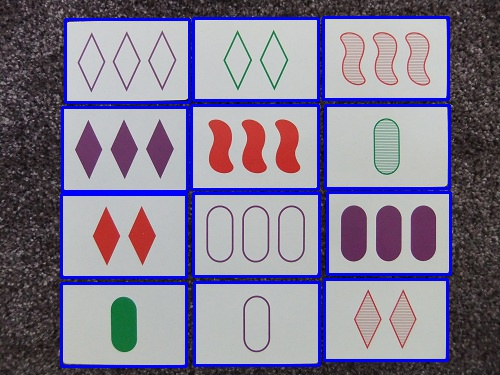
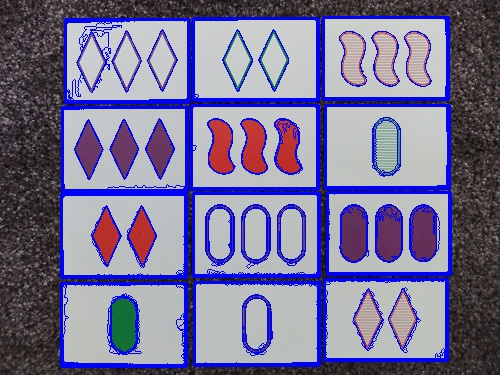
Add basic shape recognition.

Changed region(s): [[0.12, 0.0293, 0.9, 0.9973], [0.75, 0.0587, 0.78, 0.088], [0.42, 0.1467, 0.45, 0.176]]

diff --git a/find_cards.py b/find_cards.py
@@ -31,6 +31,23 @@ def find_cards(img):
                         cards.append(cv2.boundingRect(np.array([leftmost, rightmost, topmost, bottommost])))
     return cards
 
+def find_shapes(image):
+    count = 0
+    for gray in cv2.split(image):
+        for thrs in xrange(0, 255, 26):
+            if thrs == 0:
+                bin = cv2.Canny(gray, 0, 50, apertureSize=5)
+                bin = cv2.dilate(bin, None)
+            else:
+                retval, bin = cv2.threshold(gray, thrs, 255, cv2.THRESH_BINARY)
+            bin, contours, hierarchy = cv2.findContours(bin, cv2.RETR_LIST, cv2.CHAIN_APPROX_SIMPLE)
+            for cnt in contours:
+                if cv2.contourArea(cnt) > 800:
+                    cv2.drawContours(card_img, [cnt], 0, (255,0,0), 1)
+                    count += 1
+    cv2.imshow('squares2', card_img)
+    return count
+
 if __name__ == '__main__':
     from glob import glob
     for fn in glob('gameboard2.jpg'):
@@ -39,7 +56,8 @@ if __name__ == '__main__':
         cards = cv2.groupRectangles(cards, 1)[0]
         for card in cards:
             card_img = img[card[1]:card[1]+card[3], card[0]:card[0]+card[2]]
-            #contours, hierarchy = cv2.findContours(card_img, cv2.RETR_LIST, cv2.CHAIN_APPROX_SIMPLE)
+            num_shapes = find_shapes(card_img)
+            print num_shapes
             cv2.rectangle(img, (card[0], card[1]), (card[0]+card[2], card[1]+card[3]), (255, 0, 0), thickness=2)
         print "Found {num} cards.".format(num=len(cards))
         cv2.imshow('squares', img)
